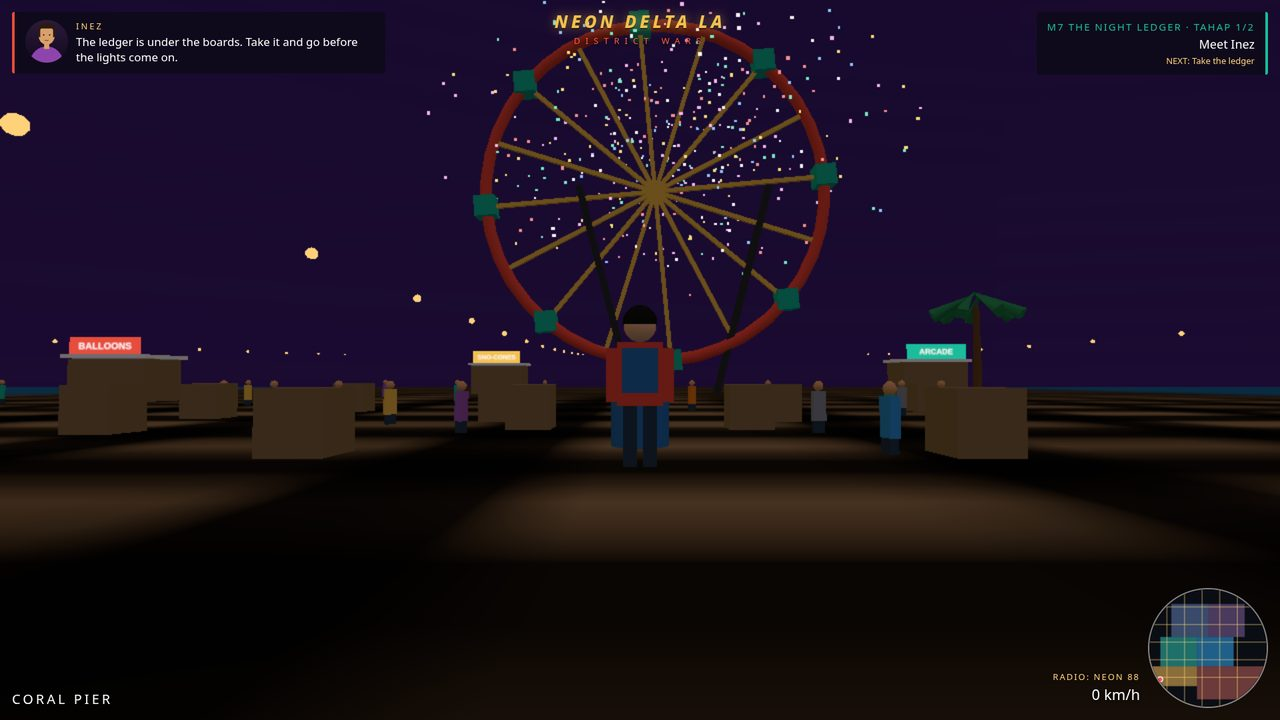
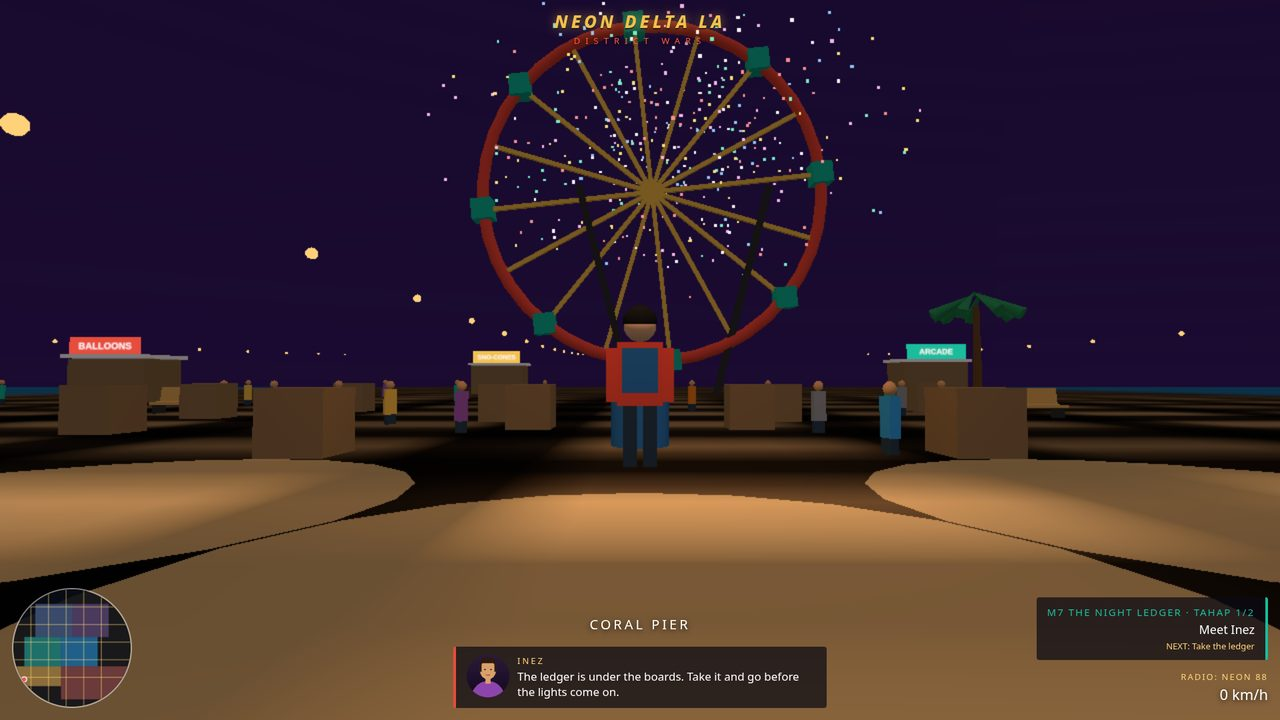
Round 8 v30: maximum visual upgrade polish
Shot 1: true 3/4 rear car angle (rotation 1.25 rad, computed from the
camera/car geometry so rear + left side + both wheels read), heli lowered
to clear the title, warm foreground light, hero clouds in the dusk sky.
Shot 2: billboard face-mounted centred on the shop (clear of the title),
dedicated yellow parked car with wheels, bench + crates restored.
Shot 3: light-tan benches + warm light pools + deck light restored.
Shot 4: hull taper sharpened (longer/narrower leaf, smaller bevel), boat
scale 4.0 so both pointed ends fit, bridge raised/thickened/lightened,
crane + bridge back in frame, foreground light.
HUD restored to the v15/v28 layout in staged shots (minimap bottom-left,
speed bottom-right, district label bottom-centre, dialogue at the bottom
for shots 2/3/4). Clouds switched to unlit pale material + hero clouds
placed in-frame for the dusk shots; dusk/night ambient lifted.

diff --git a/game/src/scene.js b/game/src/scene.js
@@ -302,6 +302,23 @@ function makeCar(color, roofColor, opts) {
   }
   return g;
 }
+// Park bench: wooden seat + backrest on iron legs. Long side along local X.
+function makeBench() {
+  const g = new THREE.Group();
+  const wood = new THREE.MeshLambertMaterial({ color: 0xd9a85c });
+  const iron = new THREE.MeshLambertMaterial({ color: 0x333333 });
+  const seat = new THREE.Mesh(new THREE.BoxGeometry(3.2, 0.14, 0.9), wood);
+  seat.position.y = 0.55;
+  const back = new THREE.Mesh(new THREE.BoxGeometry(3.2, 0.8, 0.12), wood);
+  back.position.set(0, 1.0, -0.42);
+  back.rotation.x = -0.15;
+  const legL = new THREE.Mesh(new THREE.BoxGeometry(0.12, 0.55, 0.8), iron);
+  legL.position.set(-1.4, 0.28, 0);
+  const legR = legL.clone();
+  legR.position.x = 1.4;
+  g.add(seat, back, legL, legR);
+  return g;
+}
 function makePoliceCar() {
   const g = makeCar(0x1a1a2e, 0xe8e8e8, { lights: true });
   const doorMat = new THREE.MeshLambertMaterial({ color: 0xf2f2f2 });
@@ -364,13 +381,15 @@ function makeHeli() {
 function makeBoat() {
   const g = new THREE.Group();
   const shape = new THREE.Shape();
-  shape.moveTo(3.2, 0);
-  shape.bezierCurveTo(2.6, 0.85, 1.2, 1.15, 0, 1.15);
-  shape.bezierCurveTo(-1.2, 1.15, -2.6, 0.7, -3.2, 0);
-  shape.bezierCurveTo(-2.6, -0.7, -1.2, -1.15, 0, -1.15);
-  shape.bezierCurveTo(1.2, -1.15, 2.6, -0.85, 3.2, 0);
+  // Sharper leaf: longer, narrower, pointed bow/stern so the hull reads as
+  // a sailboat, not a capsule (v30).
+  shape.moveTo(3.6, 0);
+  shape.bezierCurveTo(3.2, 0.5, 1.4, 1.05, 0, 1.05);
+  shape.bezierCurveTo(-1.4, 1.05, -3.2, 0.5, -3.6, 0);
+  shape.bezierCurveTo(-3.2, -0.5, -1.4, -1.05, 0, -1.05);
+  shape.bezierCurveTo(1.4, -1.05, 3.2, -0.5, 3.6, 0);
   const hullGeo = new THREE.ExtrudeGeometry(shape, {
-    depth: 0.9, bevelEnabled: true, bevelThickness: 0.45, bevelSize: 0.35, bevelSegments: 3, steps: 1,
+    depth: 0.9, bevelEnabled: true, bevelThickness: 0.3, bevelSize: 0.18, bevelSegments: 3, steps: 1,
   });
   hullGeo.rotateX(-Math.PI / 2);
   const hull = new THREE.Mesh(hullGeo, new THREE.MeshLambertMaterial({ color: 0xd88f2e }));
@@ -478,17 +497,15 @@ export function createScene(world, hud) {
   scene.add(shopB);
   const signTex = makeSignTexture('DELTA ARMS', '#1a1a2e', '#ffd27a');
   const sign = new THREE.Mesh(new THREE.PlaneGeometry(30, 7.5), new THREE.MeshBasicMaterial({ map: signTex }));
-  sign.position.set(-354, 9, -204.5);
+  sign.position.set(-354, 8, -204.5);
   scene.add(sign);
-  // Billboard above the shop block (depth landmark for shot 2). Kept east of
-  // the shop's tall building block (x -376..-332) so it is not swallowed by it.
+  // Billboard face-mounted on the shop block's south face, centred above the
+  // DELTA ARMS sign (v30: the centred spot is the building face itself, so
+  // the sign reads centred above the shop instead of off to the east).
   const bbTex = makeBillboardTexture();
   const bb = new THREE.Mesh(new THREE.PlaneGeometry(34, 8.5), new THREE.MeshBasicMaterial({ map: bbTex }));
-  bb.position.set(-312, 22, -230);
+  bb.position.set(-354, 17, -204.5);
   scene.add(bb);
-  const bbPole = new THREE.Mesh(new THREE.BoxGeometry(1.5, 22, 1.5), new THREE.MeshLambertMaterial({ color: 0x333333 }));
-  bbPole.position.set(-312, 11, -232);
-  scene.add(bbPole);
 
   // Garage sign prop.
   const garTex = makeSignTexture('GARAGE', '#222222', '#f2c14e');
@@ -541,8 +558,10 @@ export function createScene(world, hud) {
   }
   scene.add(lampGroup, poolGroup);
 
-  // Clouds — one shared material, faded via the material only.
-  const cloudMat = new THREE.MeshLambertMaterial({ color: 0xffd9c2, transparent: true, opacity: 0.85 });
+  // Clouds — one shared material, faded via the material only. Basic (unlit)
+  // so they stay pale and read against the deep red dusk sky (v30: Lambert
+  // clouds lit orange blended into the red sky and were invisible).
+  const cloudMat = new THREE.MeshBasicMaterial({ color: 0xffe0cc, transparent: true, opacity: 0.9 });
   const cloudGroup = new THREE.Group();
   const rngC = makeRng(99);
   for (let i = 0; i < 9; i += 1) {
@@ -553,8 +572,27 @@ export function createScene(world, hud) {
       s.scale.y = 0.45;
       cl.add(s);
     }
-    cl.position.set(-700 + rngC() * 1400, 70 + rngC() * 50, -700 + rngC() * 1200);
+    cl.position.set(-700 + rngC() * 1400, 50 + rngC() * 40, -700 + rngC() * 1200);
     cloudGroup.add(cl);
+  }
+  // Hero clouds placed to sit inside the staged dusk frames (v30): the
+  // seeded groups happen to fall outside shot 1/4's frustums, leaving a
+  // flat red sky. These sit north of Downtown (shot 1) and west over the
+  // port (shot 4) at 9-15 deg elevation, so they read in-frame.
+  const heroClouds = [
+    [-320, 60, -500, 18], [-450, 70, -600, 16], [-180, 55, -550, 15],
+    [300, 60, 550, 18], [200, 75, 650, 16], [400, 65, 450, 15],
+  ];
+  for (const [hx, hy, hz, hr] of heroClouds) {
+    const hg = new THREE.Group();
+    for (let k = 0; k < 3; k += 1) {
+      const s = new THREE.Mesh(new THREE.SphereGeometry(hr * (0.7 + k * 0.15), 8, 6), cloudMat);
+      s.position.set((k - 1) * hr * 0.9, (k % 2) * 2, (k - 1) * 3);
+      s.scale.y = 0.45;
+      hg.add(s);
+    }
+    hg.position.set(hx, hy, hz);
+    cloudGroup.add(hg);
   }
   scene.add(cloudGroup);
 
@@ -686,14 +724,15 @@ export function createScene(world, hud) {
   craneGroup.position.set(CRANE.x, 0, CRANE.z);
   scene.add(craneGroup);
 
-  // Freeway bridge across the port background.
+  // Freeway bridge across the port background (v30: raised, thickened and
+  // lightened so it reads above the rooflines instead of hiding behind them).
   const bridge = new THREE.Group();
-  const bDeck = new THREE.Mesh(new THREE.BoxGeometry(560, 3, 16), new THREE.MeshLambertMaterial({ color: 0x3a3a44 }));
-  bDeck.position.y = 14;
+  const bDeck = new THREE.Mesh(new THREE.BoxGeometry(560, 4, 16), new THREE.MeshLambertMaterial({ color: 0x55555f }));
+  bDeck.position.y = 20;
   bridge.add(bDeck);
   for (let x = -240; x <= 760; x += 125) {
-    const pillar = new THREE.Mesh(new THREE.BoxGeometry(4, 14, 4), new THREE.MeshLambertMaterial({ color: 0x2a2a30 }));
-    pillar.position.set(x, 7, 0);
+    const pillar = new THREE.Mesh(new THREE.BoxGeometry(4, 20, 4), new THREE.MeshLambertMaterial({ color: 0x2a2a30 }));
+    pillar.position.set(x, 10, 0);
     bridge.add(pillar);
   }
   bridge.position.set(300, 0, 470);
@@ -715,6 +754,11 @@ export function createScene(world, hud) {
   // Hero car, Mara, police, heli, boat, roadblock.
   const heroCar = makeCar(0xe74c3c, 0x1abc9c, { lights: true });
   scene.add(heroCar);
+  // Parked car for shot 2 (yellow, with wheels — the traffic cars are built
+  // wheel-less, so re-using one read as a grey box; this one reads as a car).
+  const parkedCarMesh = makeCar(0xf2c14e, 0x1a2436);
+  parkedCarMesh.visible = false;
+  scene.add(parkedCarMesh);
   const mara = makeMara(1.8);
   scene.add(mara);
   const heli = makeHeli();
@@ -732,7 +776,7 @@ export function createScene(world, hud) {
   boat.position.set(BOAT.x, 0, BOAT.z);
   // Side-on to the shot-4 camera: full hull profile, sail facing the camera.
   boat.rotation.y = 1.84;
-  boat.scale.setScalar(4.5);
+  boat.scale.setScalar(4.0);
   scene.add(boat);
   const roadblock = new THREE.Group();
   const stripeTex = makeStripedTexture();
@@ -790,18 +834,18 @@ export function createScene(world, hud) {
     } else if (phase === 'dusk') {
       scene.fog.color.set(0xc25a2e);
       scene.background = new THREE.Color(0xc25a2e);
-      hemi.intensity = 1.05;
+      hemi.intensity = 1.15;
       sun.intensity = 1.0;
       sun.color.set(0xff8c2e);
-      amb.intensity = 0.5;
+      amb.intensity = 0.6;
       cloudMat.opacity = 0.9;
     } else {
       scene.fog.color.set(0x1c0b33);
       scene.background = new THREE.Color(0x1c0b33);
-      hemi.intensity = 0.5;
+      hemi.intensity = 0.6;
       sun.intensity = 0.25;
       sun.color.set(0x8a9aff);
-      amb.intensity = 0.22;
+      amb.intensity = 0.3;
       cloudMat.opacity = 0.55;
     }
   }
@@ -814,6 +858,15 @@ export function createScene(world, hud) {
       m.rotation.y = range(rngP, 0, Math.PI * 2);
       m.scale.setScalar(1.05);
     }
+  }
+
+  // Warm point light for a staged shot. Physical light units: intensity is
+  // candela, so a light 6-10 units above the ground needs a large value.
+  function addShotLight(x, y, z, intensity, distance) {
+    const l = new THREE.PointLight(0xffc27a, intensity, distance, 2);
+    l.position.set(x, y, z);
+    scene.add(l);
+    return l;
   }
 
   function applyShot(n) {
@@ -838,11 +891,15 @@ export function createScene(world, hud) {
     // Hide the extra peds/cars first; staged ones are placed below.
     for (const m of pedMeshes) m.visible = false;
     for (const m of trafficMeshes) m.visible = false;
+    parkedCarMesh.visible = false;
 
     if (n === 1) {
       heroCar.visible = true;
       heroCar.position.set(s.car.x, 0, s.car.z);
-      heroCar.rotation.y = 0.5;
+      // 3/4 rear angle for the current camera (camera SE of the car, looking
+      // NNW): 1.25 rad puts the rear ~45 deg and the left side ~45 deg to the
+      // camera, so the left side + both wheels + cabin + roof all read.
+      heroCar.rotation.y = 1.25;
       heroCar.scale.setScalar(2.0);
       mara.visible = false;
       roadblock.visible = true;
@@ -858,6 +915,9 @@ export function createScene(world, hud) {
       heli.scale.setScalar(1.6);
       beam.visible = true;
       beamPool.visible = true;
+      // Warm light over the foreground road so the bottom of the frame reads
+      // instead of going black (v30).
+      addShotLight(-320, 10, -240, 150, 70);
       boat.visible = false;
       // Police cars flanking the roadblock + traffic on the avenue.
       const pcs = [[-332, -288, 0.15], [-308, -302, -0.1], [-332, -330, 0.2], [-308, -260, 0]];
@@ -890,11 +950,22 @@ export function createScene(world, hud) {
       boat.visible = false;
       const pc = null;
       void pc;
-      // Parked car near the shop (re-use a traffic mesh).
-      trafficMeshes[0].visible = true;
-      trafficMeshes[0].position.set(s.parkedCar.x, 0, s.parkedCar.z);
-      trafficMeshes[0].rotation.y = 0.6;
-      trafficMeshes[0].scale.setScalar(1.1);
+      // Parked car near the shop (dedicated mesh with wheels).
+      parkedCarMesh.visible = true;
+      parkedCarMesh.position.set(s.parkedCar.x, 0, s.parkedCar.z);
+      parkedCarMesh.rotation.y = 0.6;
+      parkedCarMesh.scale.setScalar(1.1);
+      // Foreground props flanking Mara (v30 restore): bench west of her,
+      // crates east of her by the road. All clear of the staged peds.
+      const bench2 = makeBench();
+      bench2.position.set(-360, 0, -175);
+      scene.add(bench2);
+      const crateMat2 = new THREE.MeshLambertMaterial({ color: 0x8a6d4b });
+      for (const [cx, cz] of [[-335, -178], [-330, -190]]) {
+        const crate = new THREE.Mesh(new THREE.BoxGeometry(1.6, 1.6, 1.6), crateMat2);
+        crate.position.set(cx, 0.8, cz);
+        scene.add(crate);
+      }
       placePeds(s.peds, 0);
       placePeds(s.foregroundPeds, 5);
       // A few more peds down the avenue for depth.
@@ -946,6 +1017,23 @@ export function createScene(world, hud) {
       const nBarrel = new THREE.Mesh(new THREE.CylinderGeometry(0.8, 0.8, 1.8, 10), barrelMat);
       nBarrel.position.set(-656, 0.9, 428);
       scene.add(nBarrel);
+      // Benches + warm light pools in the foreground (v30 restore). Benches
+      // face the camera (long side along Z); pools are flat glow discs on the
+      // deck so the bottom of the frame reads instead of going black.
+      for (const [bx, bz] of [[-668, 410], [-672, 452]]) {
+        const bench = makeBench();
+        bench.position.set(bx, 0, bz);
+        bench.rotation.y = Math.PI / 2;
+        scene.add(bench);
+      }
+      const poolMat = new THREE.MeshBasicMaterial({ color: 0xffc27a, transparent: true, opacity: 0.4, blending: THREE.AdditiveBlending, depthWrite: false });
+      for (const [px, pz] of [[-648, 420], [-648, 436], [-644, 428]]) {
+        const pool = new THREE.Mesh(new THREE.CircleGeometry(4.5, 20), poolMat);
+        pool.rotation.x = -Math.PI / 2;
+        pool.position.set(px, 0.08, pz);
+        scene.add(pool);
+      }
+      addShotLight(-650, 8, 428, 80, 45);
       camera.position.set(s.camera.x, s.camera.y, s.camera.z);
       camera.lookAt(s.look.x, s.look.y, s.look.z);
     } else if (n === 4) {
@@ -971,6 +1059,10 @@ export function createScene(world, hud) {
         crate.position.set(p.x, 0.9, p.z);
         scene.add(crate);
       }
+      // Warm light over the foreground apron/road so the bottom of the frame
+      // reads instead of going black (v30). Placed just south of the camera
+      // so it covers the ground at the bottom of the frame.
+      addShotLight(642, 6, 628, 120, 50);
       placePeds(s.peds, 0);
       camera.position.set(s.camera.x, s.camera.y, s.camera.z);
       camera.lookAt(s.look.x, s.look.y, s.look.z);

diff --git a/game/index.html b/game/index.html
@@ -75,6 +75,19 @@
   body.shot1 #standing-bar, body.shot2 #standing-bar, body.shot3 #standing-bar, body.shot4 #standing-bar,
   body.shot1 #dispatch-panel, body.shot2 #dispatch-panel, body.shot3 #dispatch-panel, body.shot4 #dispatch-panel,
   body.shot1 #hud-weapon, body.shot2 #hud-weapon, body.shot3 #hud-weapon, body.shot4 #hud-weapon { display: none !important; }
+  /* v30: restore the v15/v28 HUD layout in staged shots (minimap bottom-left,
+     speed bottom-right, district label bottom-centre). */
+  body.shot1 #minimap, body.shot2 #minimap, body.shot3 #minimap, body.shot4 #minimap { left: 18px; right: auto; }
+  body.shot1 #district-label, body.shot2 #district-label, body.shot3 #district-label, body.shot4 #district-label { left: 50%; transform: translateX(-50%); right: auto; }
+  body.shot1 #speed, body.shot2 #speed, body.shot3 #speed, body.shot4 #speed { right: 18px; }
+  body.shot1 #radio-label, body.shot2 #radio-label, body.shot3 #radio-label, body.shot4 #radio-label { right: 18px; }
+  /* Dialogue + portrait at the BOTTOM for shots 2/3/4 (top only for shot 1);
+     mission bar bottom-right for shots 2/3/4. District label sits just above
+     the dialogue in shots 2/3/4 so the two bottom-centre elements do not
+     collide; shot 1 keeps it at the bottom. */
+  body.shot2 #dialogue, body.shot3 #dialogue, body.shot4 #dialogue { top: auto; bottom: 18px; left: 50%; transform: translateX(-50%); }
+  body.shot2 #mission-bar, body.shot3 #mission-bar, body.shot4 #mission-bar { top: auto; bottom: 90px; right: 18px; }
+  body.shot2 #district-label, body.shot3 #district-label, body.shot4 #district-label { bottom: 130px; }
 </style>
 <script type="importmap">
 {

diff --git a/game/src/shots.js b/game/src/shots.js
@@ -9,7 +9,7 @@ export const SHOTS = {
     car: { x: -320, z: -261 },
     camera: { x: -314, y: 2.6, z: -249 },
     look: { x: -320, y: 2.2, z: -272 },
-    heli: { x: -320, y: 24, z: -300 },
+    heli: { x: -320, y: 19, z: -300 },
     roadblock: { x: -320, z: -295 },
     swat: { x: -300, z: -298 },
     peds: [
@@ -24,7 +24,7 @@ export const SHOTS = {
   2: {
     mission: 2, hour: 10, wanted: 0, standing: 10, cover: 100, tapes: 1, money: 900,
     mara: { x: SHOP.x - 10, z: SHOP.z + 40 },
-    parkedCar: { x: SHOP.x - 45, z: SHOP.z - 35 },
+    parkedCar: { x: SHOP.x - 40, z: SHOP.z + 10 },
     camera: { x: SHOP.x - 10, y: 3.5, z: SHOP.z + 47 },
     look: { x: SHOP.x - 10, y: 2.6, z: SHOP.z + 40 },
     peds: [
@@ -68,7 +68,7 @@ export const SHOTS = {
     boat: { x: BOAT.x, z: BOAT.z },
     crane: { x: CRANE.x, z: CRANE.z },
     camera: { x: 645, y: 3, z: 626 },
-    look: { x: 590, y: 4, z: 615 },
+    look: { x: 586, y: 5, z: 607 },
     peds: [
       { x: 400, z: 520 }, { x: 440, z: 560 }, { x: 500, z: 540 }, { x: 460, z: 600 },
       { x: 540, z: 580 }, { x: 380, z: 560 }, { x: 470, z: 600 }, { x: 585, z: 605 },
